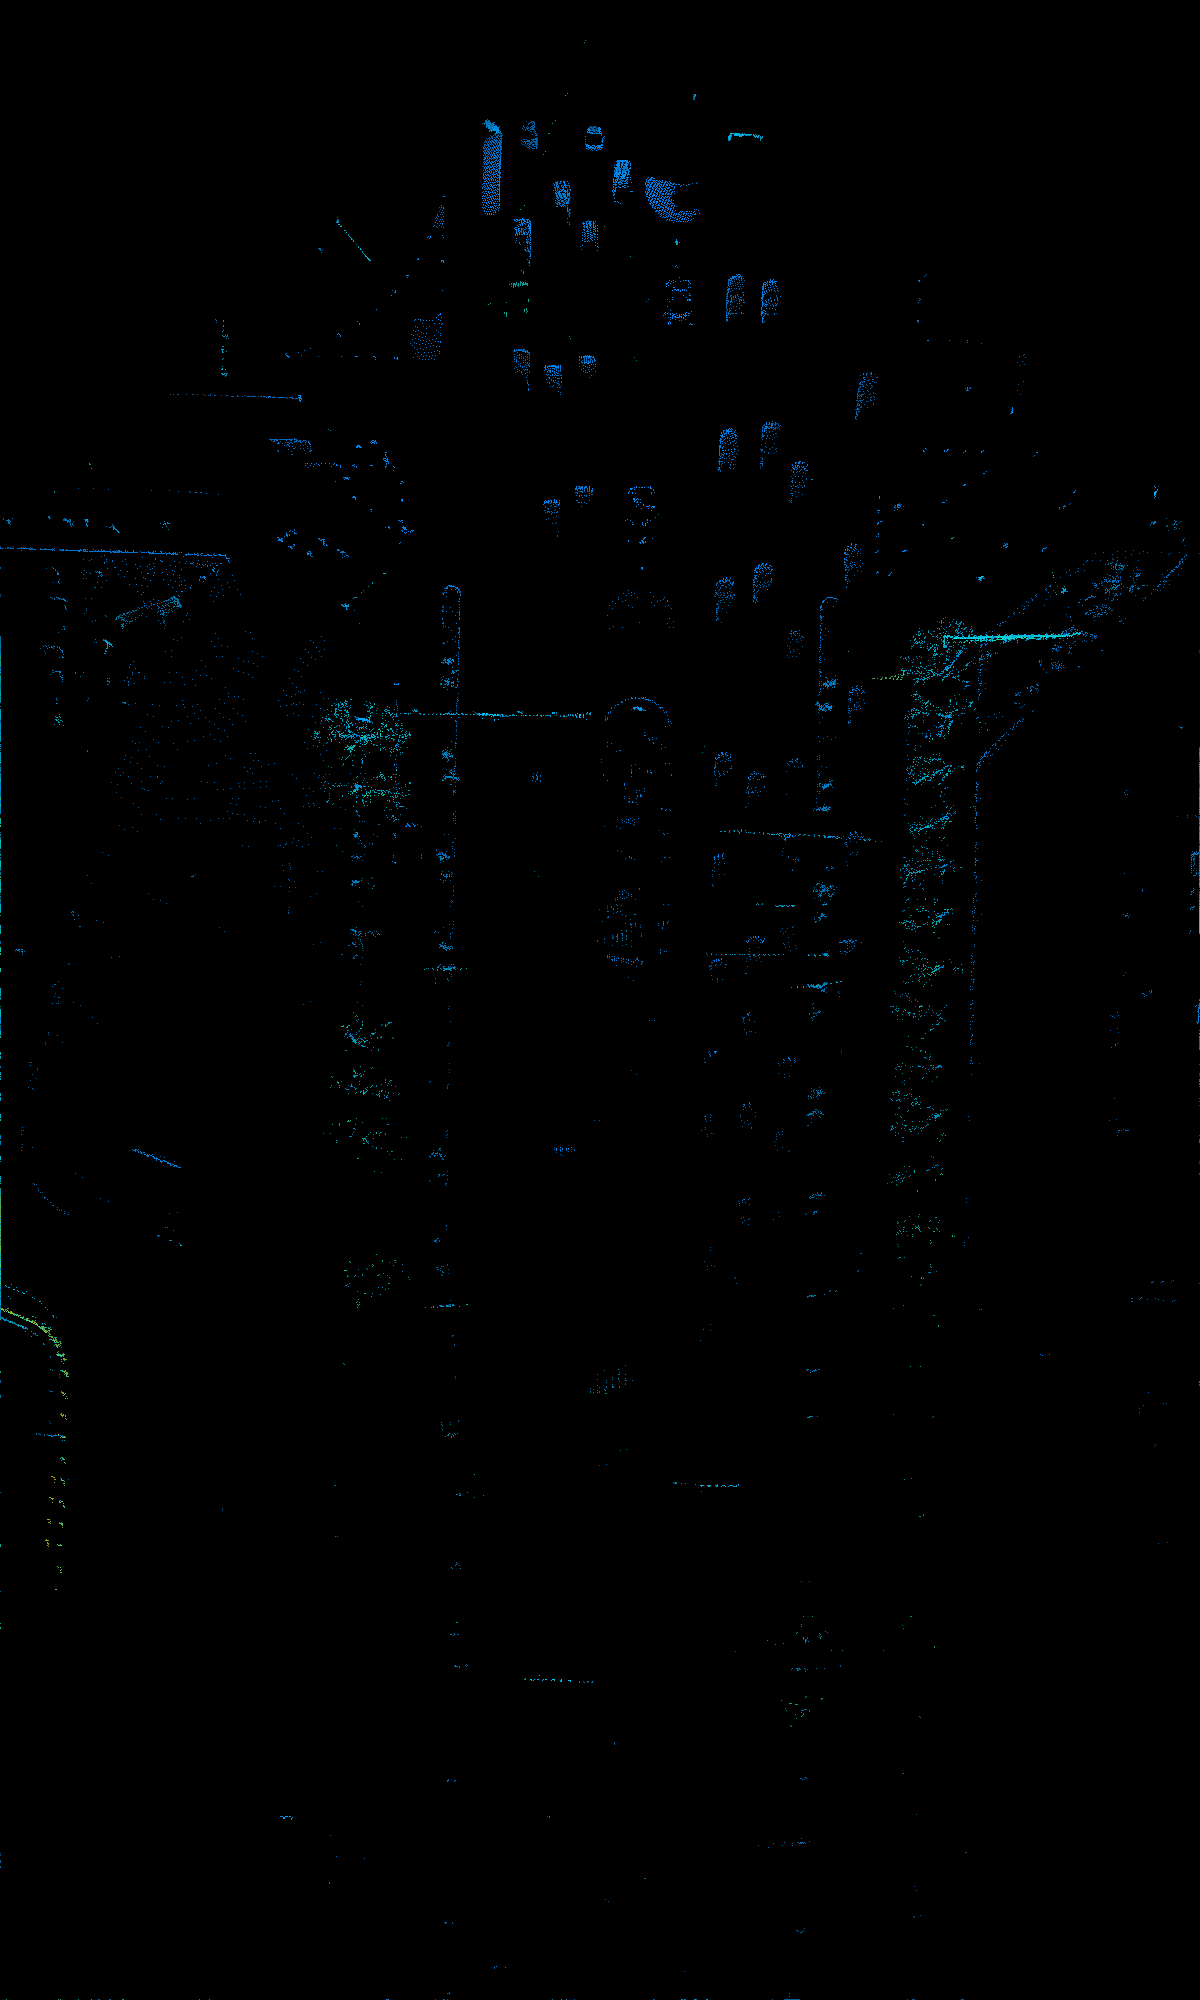
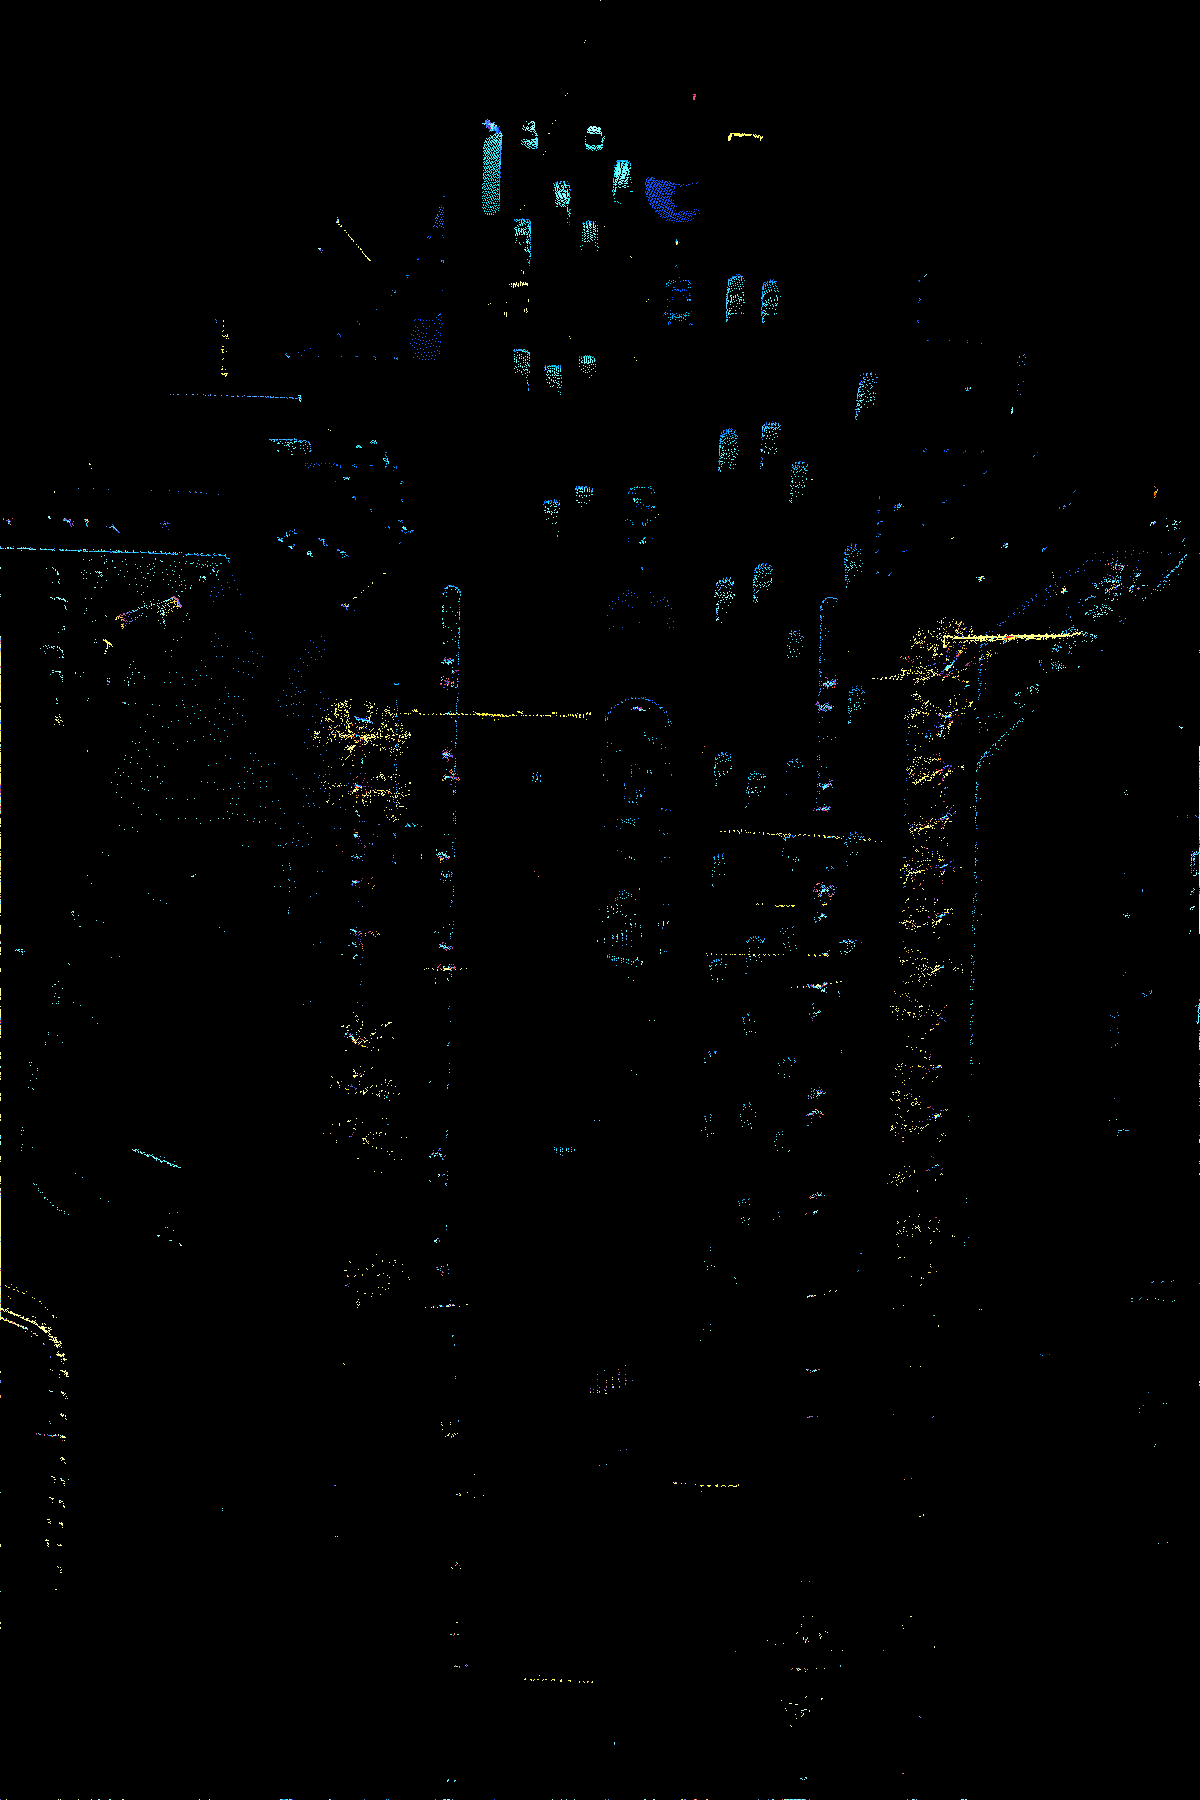
0529

diff --git a/data_generate/process_bev_and_generate_masks.py b/data_generate/process_bev_and_generate_masks.py
@@ -67,13 +67,58 @@ def draw_bev_with_boxes(bev_img, annotations, x_range, y_range, resolution):
     return canvas
 
 
-def morphology_on_color_image(img, kernel_size=5):
-    kernel = cv2.getStructuringElement(cv2.MORPH_ELLIPSE, (kernel_size, kernel_size))
-    b, g, r = cv2.split(img)
-    b_new = cv2.morphologyEx(b, cv2.MORPH_CLOSE, kernel)
-    g_new = cv2.morphologyEx(g, cv2.MORPH_CLOSE, kernel)
-    r_new = cv2.morphologyEx(r, cv2.MORPH_CLOSE, kernel)
-    result = cv2.merge([b_new, g_new, r_new])
+# def morphology_on_color_image(img, kernel_size=5):
+#     kernel = cv2.getStructuringElement(cv2.MORPH_ELLIPSE, (kernel_size, kernel_size))
+#     b, g, r = cv2.split(img)
+#     b_new = cv2.morphologyEx(b, cv2.MORPH_CLOSE, kernel)
+#     g_new = cv2.morphologyEx(g, cv2.MORPH_CLOSE, kernel)
+#     r_new = cv2.morphologyEx(r, cv2.MORPH_CLOSE, kernel)
+#     result = cv2.merge([b_new, g_new, r_new])
+#     return result
+
+def distance_aware_morphology(img, x_range, y_range, resolution,
+                              dist_thresholds=(30, 60, 90),
+                              kernel_sizes=(3, 5, 9, 12)):
+    """
+    根据距离分区域对图像做不同核大小的形态学闭操作。
+
+    Parameters:
+    - img: 输入的RGB图像（H×W×3）
+    - x_range, y_range: BEV图像的空间范围
+    - resolution: 每个像素对应的米数
+    - dist_thresholds: 3个距离分界值 (e.g. 30, 60, 90)
+    - kernel_sizes: 4个对应的 kernel size (e.g. 3, 5, 9, 12)
+    """
+    H, W, _ = img.shape
+
+    # 计算每个像素在BEV空间的真实坐标
+    xv, yv = np.meshgrid(
+        np.linspace(y_range[0], y_range[1], W),
+        np.linspace(x_range[0], x_range[1], H)
+    )
+    dist_map = np.sqrt(xv ** 2 + yv ** 2)
+
+    # 创建四个距离区域掩码
+    mask_1 = dist_map < dist_thresholds[0]                     # 0–30m
+    mask_2 = (dist_map >= dist_thresholds[0]) & (dist_map < dist_thresholds[1])  # 30–60m
+    mask_3 = (dist_map >= dist_thresholds[1]) & (dist_map < dist_thresholds[2])  # 60–90m
+    mask_4 = dist_map >= dist_thresholds[2]                    # 90m+
+
+    result = np.zeros_like(img)
+
+    # 对每个通道分别处理
+    for c in range(3):
+        ch = img[:, :, c]
+        out = np.zeros_like(ch)
+
+        for mask, ksize in zip([mask_1, mask_2, mask_3, mask_4], kernel_sizes):
+            if np.any(mask):
+                kernel = cv2.getStructuringElement(cv2.MORPH_ELLIPSE, (ksize, ksize))
+                processed = cv2.morphologyEx(ch, cv2.MORPH_CLOSE, kernel)
+                out[mask] = processed[mask]
+
+        result[:, :, c] = out
+
     return result
 
 
@@ -140,7 +185,14 @@ def process_batch(bev_dir, json_dir, output_dir_fused, output_dir_fused_with_box
             print(f"[ERROR] Failed to load image: {bev_path}")
             continue
 
-        closed_img = morphology_on_color_image(bev_img, kernel_size=kernel_size)
+        closed_img = distance_aware_morphology(
+                bev_img,
+                x_range=x_range,
+                y_range=y_range,
+                resolution=resolution,
+                dist_thresholds=(30, 60, 90),
+                kernel_sizes=(3, 5, 8, 10)
+            )
         fused_img = highlight_fusion(bev_img, closed_img)
 
         fused_save_path = os.path.join(output_dir_fused, fname)
@@ -167,21 +219,28 @@ def process_batch(bev_dir, json_dir, output_dir_fused, output_dir_fused_with_box
 
 
 if __name__ == "__main__":
-    bev_input_dir = "./data_test/bev"
-    json_input_dir = "./data_test/annotations"
+    # bev_input_dir = "./data_test/bev"
+    # json_input_dir = "./data_test/annotations"
 
-    output_dir_fused = "./data_test/bev_fused_only"               # 融合后（无框）图像输出
-    output_dir_fused_with_boxes = "./data_test/bev_fused_with_boxes"  # 融合后绘制检测框图像输出
-    output_dir_mask = "./data_test/bev_masks"                         # 蒙版输出
+    # output_dir_fused = "./data_test/bev_fused_only"               # 融合后（无框）图像输出
+    # output_dir_fused_with_boxes = "./data_test/bev_fused_with_boxes"  # 融合后绘制检测框图像输出
+    # output_dir_mask = "./data_test/bev_masks"                         # 蒙版输出
 
+    bev_input_dir = "/home/zhaoyuting/DAIR/ImageNet_background_and_distance_improve/bev"
+    json_input_dir = "/home/zhaoyuting/DAIR/single-infrastructure-side/label/virtuallidar"
+
+    output_dir_fused = "/home/zhaoyuting/DAIR/ImageNet_background_and_distance_improve/bev_fused_only"               # 融合后（无框）图像输出
+    output_dir_fused_with_boxes = "/home/zhaoyuting/DAIR/ImageNet_background_and_distance_improve/bev_fused_with_boxes"  # 融合后绘制检测框图像输出
+    output_dir_mask = "/home/zhaoyuting/DAIR/ImageNet_background_and_distance_improve/bev_masks"                         # 蒙版输出
+    
     process_batch(
         bev_dir=bev_input_dir,
         json_dir=json_input_dir,
         output_dir_fused=output_dir_fused,
         output_dir_fused_with_boxes=output_dir_fused_with_boxes,
         output_dir_mask=output_dir_mask,
-        x_range=(0, 300),
-        y_range=(-200, 200),
+        x_range=(0, 150),
+        y_range=(-60, 60),
         resolution=0.1,
         kernel_size=5
     )

diff --git a/data_generate/DAIR_generate.py b/data_generate/DAIR_generate.py
@@ -64,7 +64,7 @@ class BEVGenerator:
             ground_height = pc_z.masked_select(ground_mask).view(B, -1).mean(dim=1, keepdim=True)  # B x 1
             relative_z = pc_z - ground_height  # B x N
             center = 2.0  # 地面+2m
-            width = 0.75
+            width = 2.0
             z_norm = torch.exp(-((relative_z - center) ** 2) / (2 * width ** 2))
         else:
             z_min, z_max = pc_z.min(), pc_z.max()
@@ -83,11 +83,22 @@ class BEVGenerator:
         i_norm = i_norm.unsqueeze(-1)
         final_colors = base_colors * i_norm
         final_colors = final_colors.clamp(0, 255)
+        
+        # 添加这一行实现反色
+        final_colors = 255 - final_colors
 
         if self.remove_ground_points:
             final_colors.masked_fill_(ground_mask.unsqueeze(-1), 0)
 
         bev_map[batch_id, rank_x, rank_y, :] = final_colors
+
+        # # 替换背景像素（颜色值非常小的）为 ImageNet 风格的背景颜色
+        # background_color = torch.tensor([123, 116, 103], dtype=torch.float32, device=point_clouds.device)
+
+        # # 条件：RGB 所有通道都小于 10（表示为背景）
+        # mask_background = (bev_map < 10).all(dim=-1)  # shape: (B, H, W)
+        # bev_map[mask_background] = background_color
+        
         return bev_map
 
 
@@ -107,17 +118,21 @@ def pcd_to_tensor(pcd_path):
     return tensor
 
 
-def batch_generate_bev(input_dir, output_dir):
+def batch_generate_bev(input_dir, output_dir, max_files=None):
     os.makedirs(output_dir, exist_ok=True)
     bev_gen = BEVGenerator(
         resolution=0.1,
-        x_range=(0, 200),
+        x_range=(0, 150),
         y_range=(-60, 60),
         z_range=(-30,80),
         remove_ground_points=True
     )
 
     pcd_files = sorted([f for f in os.listdir(input_dir) if f.endswith(".pcd")])
+    
+    if max_files is not None:
+        pcd_files = pcd_files[:max_files]
+    
     for fname in tqdm(pcd_files):
         path = os.path.join(input_dir, fname)
         try:
@@ -131,4 +146,4 @@ def batch_generate_bev(input_dir, output_dir):
 
 
 if __name__ == "__main__":
-    batch_generate_bev("./data_test/velodyne_0", "./data_test/bev")  # 可自定义高度范围
+    batch_generate_bev("/home/zhaoyuting/DAIR/single-infrastructure-side-velodyne", "/home/zhaoyuting/DAIR/ImageNet_background_and_distance_improve/bev", max_files=1500)  # 可自定义高度范围
